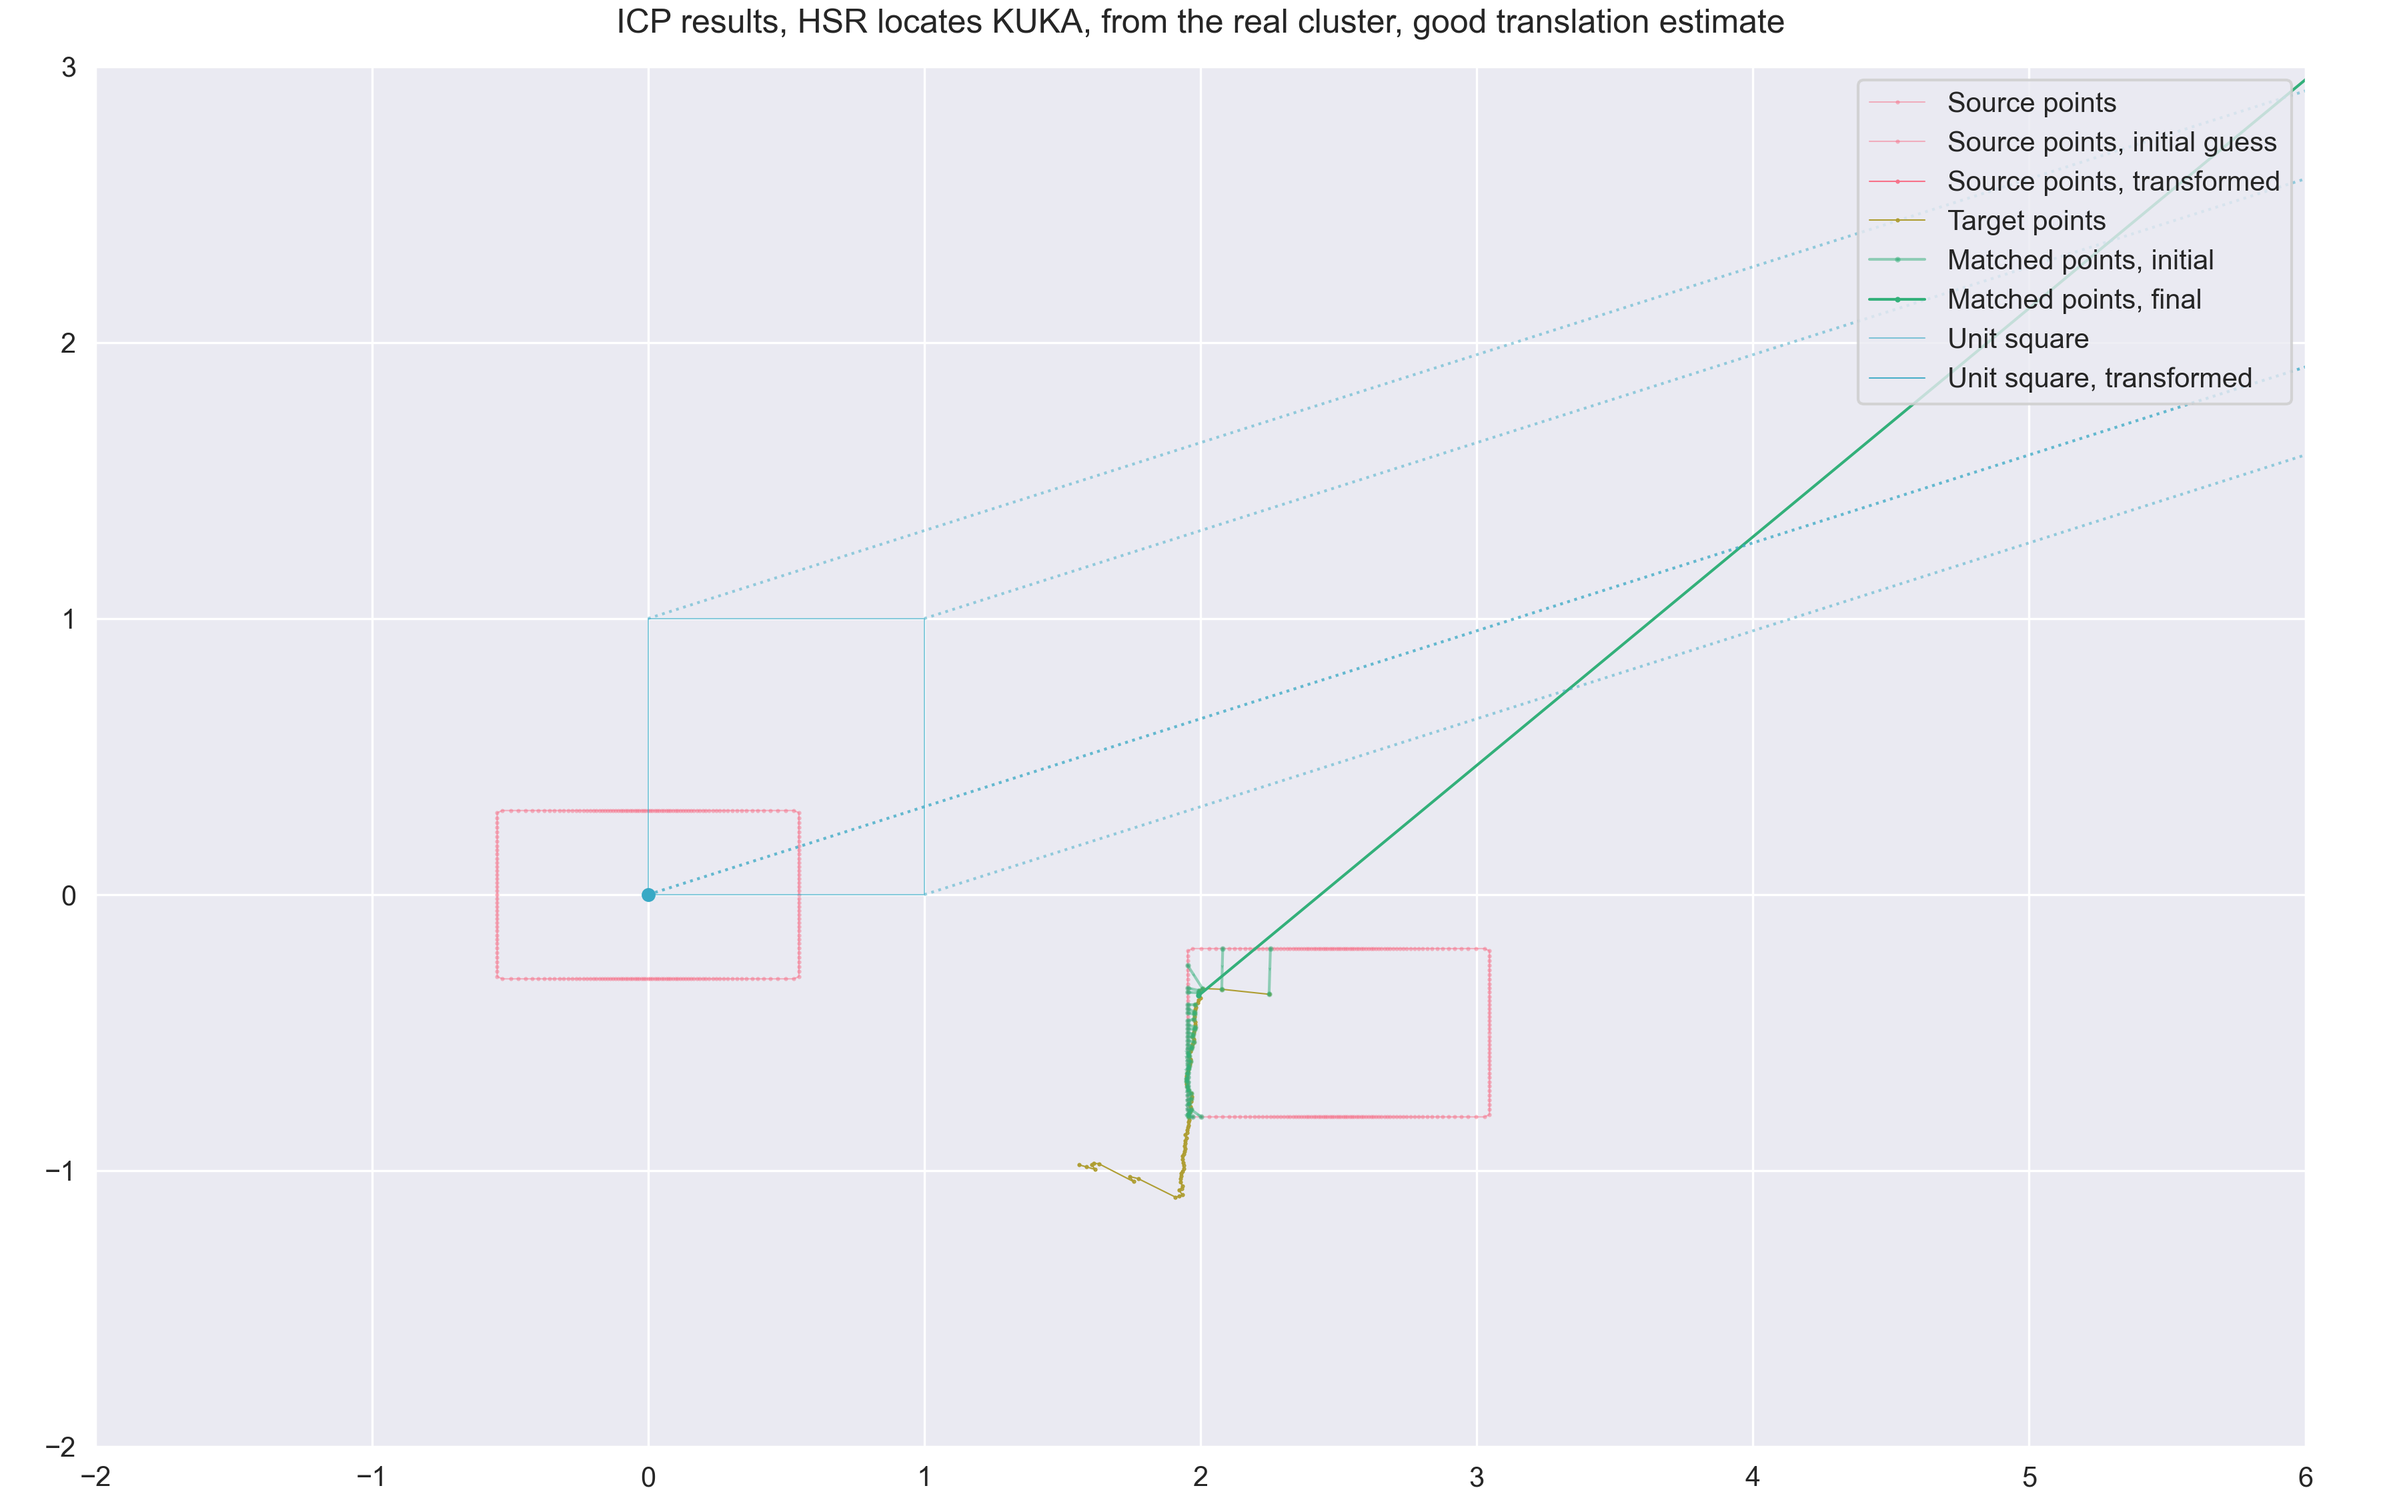
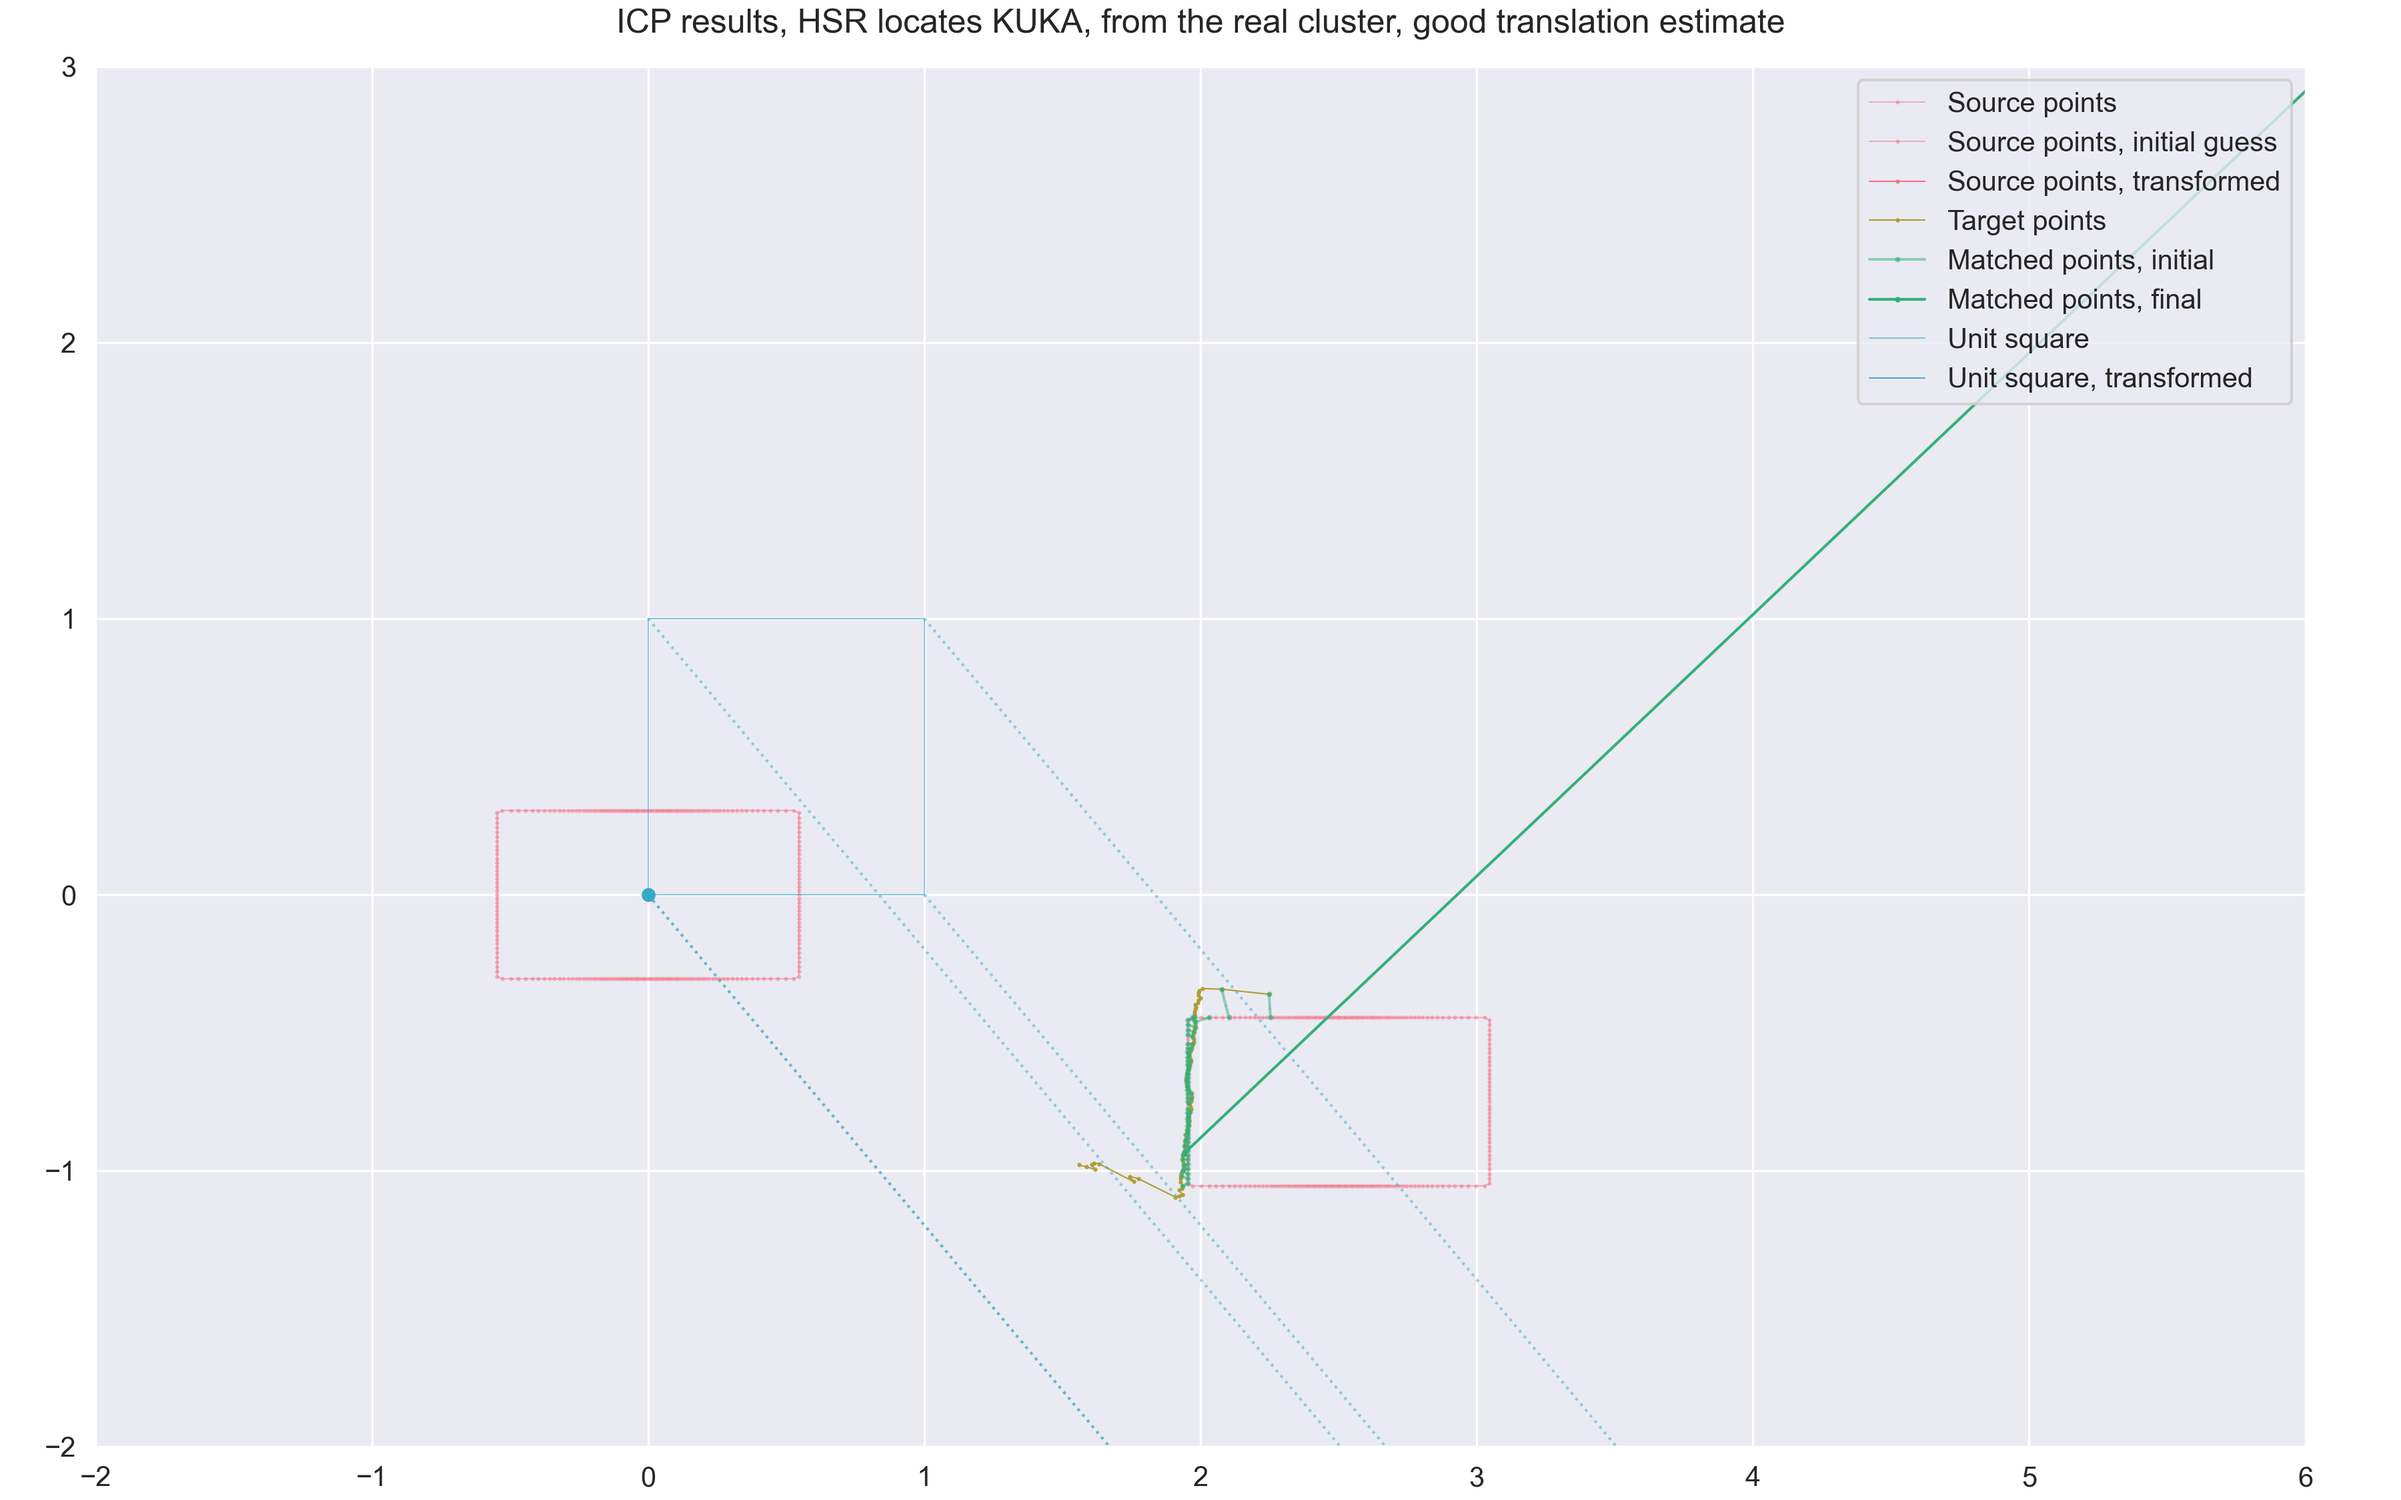
New: remove ipynb stats; grid search; KUKA dims

diff --git a/scripts/robo_pose_estimator.py b/scripts/robo_pose_estimator.py
@@ -232,29 +232,32 @@ class PoseEstimator:
         2) Pick the pair that makes sense as relative pose
         Note that those should be inverse of each other
         """
-        def __init__(self, ptc_a=None, ptc_b=None, rg_a=None, rg_b=None):
+        def __init__(self, pcr_a=None, pcr_b=None, pts_a=None, pts_b=None):
             """
-            :param ptc_a: Point-cloud representation of `robot_a`
-            :param ptc_b: Point-cloud representation of `robot_b`
-            :param rg_a: Range of laser sensor of `robot_a`
-            :param rg_b: Range of laser sensor of `robot_b`
+            :param pcr_a: Point-cloud representation of `robot_a`
+            :param pcr_b: Point-cloud representation of `robot_b`
+            :param pts_a: List of points of laser readings of `robot_a`
+            :param pts_b: List of points of laser readings of `robot_b`
             """
-            self.ptc_a = ptc_a
-            self.ptc_b = ptc_b
-            self.rg_a = rg_a
-            self.rg_b = rg_b
+            self.pcr_a = pcr_a
+            self.pcr_b = pcr_b
+            self.pts_a = pts_a
+            self.pts_b = pts_b
 
-        def __call__(self, pts_a=None, pts_b=None):
-            # tsf = Icp(pts_a, self.pc_b)()
-            # plot_icp_result(extend_1s(pts_a), self.pc_b, tsf, title='default init', save=True)
+        def __call__(self):
+            # visualize(self.ptc_b, pts_a, tsf=np.array([
+            #     [1, 0, 3],
+            #     [0, 1, -0.5],
+            #     [0, 0, 1]
+            # ]))
+            pass
 
-            # visualize(pts_a, self.pc_b, 'default init from HSR')
-            # visualize(self.pc_b, pts_a, 'default init from KUKA shape')
-            visualize(self.ptc_b, pts_a, tsf=np.array([
-                [1, 0, 3],
-                [0, 1, -0.5],
-                [0, 0, 1]
-            ]))
+        def grid_search(self):
+            self._grid_search(self.pcr_a, self.pts_b)
+            self._grid_search(self.pcr_b, self.pts_a)
+
+        def _grid_search(self, a, b):
+            ic(a, b)
 
     class FuseLaser:
         """
@@ -267,32 +270,28 @@ class PoseEstimator:
 
 
 if __name__ == '__main__':
-    from explore_package.irc_laser_data_eg import src_pts, tgt_pts
-
     def icp_sanity_check():
+        from explore_package.irc_laser_data_eg import src_pts, tgt_pts
         s_pts = src_pts[:, :2]  # Expect 2-dim data points
         t_pts = tgt_pts[:, :2]
         # ic(src_pts.shape, tgt_pts.shape)
 
         t = Icp(s_pts, t_pts)()
         ic(t)
-
+        visualize(
+            s_pts, t_pts,
+            title='Sample data sanity check',
+            # save=True
+        )
     # icp_sanity_check()
 
-    # ptc_kuka = get_rect_pointcloud(
-    #     PoseEstimator.L_KUKA,
-    #     PoseEstimator.W_KUKA,
-    # )
     ptc_kuka = get_kuka_pointcloud()
-    # hsr_scans = json_load('../data/HSR laser 2.json')
-    # s = hsr_scans[77]
-    # pts = laser_polar2planar(s['angle_max'], s['angle_min'])(np.array(s['ranges']))
     pts = eg_hsr_scan()
 
     def check_icp_hsr():
         # Empirically have `robot_a` as HSR, `robot_b` as KUKA
-        fp = PoseEstimator.FusePose(ptc_b=ptc_kuka)
-        ic(fp.ptc_b.shape)
+        fp = PoseEstimator.FusePose(pcr_b=ptc_kuka)
+        ic(fp.pcr_b.shape)
 
         title = 'default init from KUKA shape, good translation guess'
         init_tsf = np.array([
@@ -301,7 +300,6 @@ if __name__ == '__main__':
             [0, 0, 1]
         ])
         visualize(ptc_kuka, pts, tsf=init_tsf, title=title, xlim=[-2, 6], ylim=[-2, 2], mode='static', save=True)
-
     # check_icp_hsr()
 
     c = Cluster.cluster
@@ -328,7 +326,6 @@ if __name__ == '__main__':
         hi(2)
         ga()
         db()
-
     # clustering_sanity_check()
 
     def icp_after_cluster():
@@ -347,10 +344,14 @@ if __name__ == '__main__':
             ptc_kuka, cls,
             title='HSR locates KUKA, from the real cluster, good translation estimate',
             init_tsf=tsl_n_angle2tsf(tsl=[2.5, -0.5]),
-            xlim=[-2, 6], ylim=[-2, 3], mode='control', save=False
+            xlim=[-1, 5], ylim=[-2, 2], mode='control',
+            save=False
         )
+    # icp_after_cluster()
 
-    icp_after_cluster()
-
+    def grid_search():
+        fp = PoseEstimator.FusePose(pts_a=pts, pcr_b=ptc_kuka)
+        fp.grid_search()
+    grid_search()
 
 

diff --git a/scripts/util.py b/scripts/util.py
@@ -381,9 +381,7 @@ def plot_icp_result(src, tgt, tsf, title=None, save=False, states=None, xlim=Non
         by_label = dict(zip(labels, handles))
         plt.legend(by_label.values(), by_label.keys())
 
-        # if save:
-        #     plt.savefig(f'plot/{t_}.png', dpi=300)
-        save_fig(save, title)
+        save_fig(save, t_)
 
         if mode != 'static':
             plt.pause(1 if mode == 'animate' else 0.1)  # 'control'
@@ -476,8 +474,6 @@ def plot_cluster(data, labels, title=None, save=False):
     plt.title(t)
     plt.legend()
     plt.gca().set_aspect('equal')
-    # if save:
-    #     plt.savefig(f'plot/{t}.png', dpi=300)
     save_fig(save, title)
     plt.show()
 

diff --git a/scripts/config.py b/scripts/config.py
@@ -14,8 +14,8 @@ config = {
     ),
     'dimensions': dict(
         KUKA=dict(
-            length=unit_converter(43),  # In meters
-            width=unit_converter(24)
+            length=unit_converter(41),  # In meters
+            width=unit_converter(25)
         )
     )
 }
